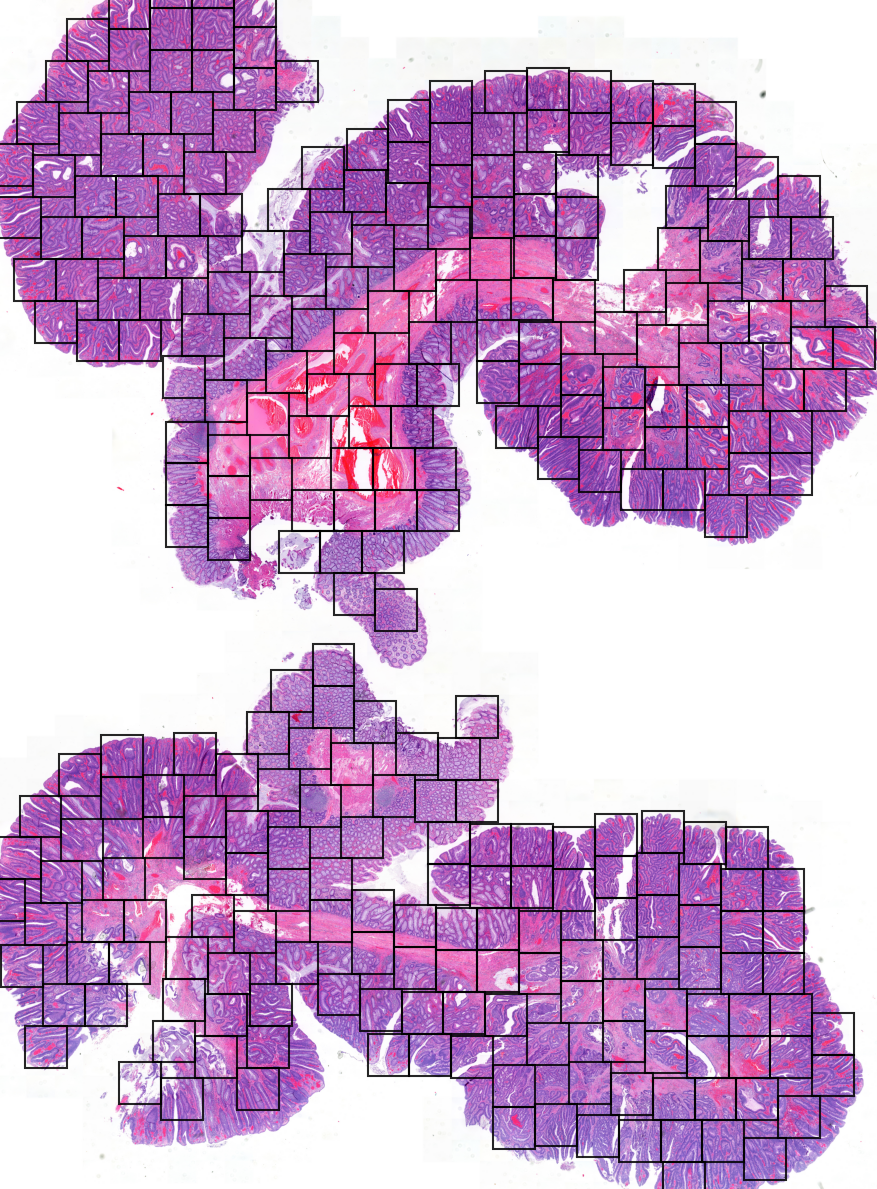
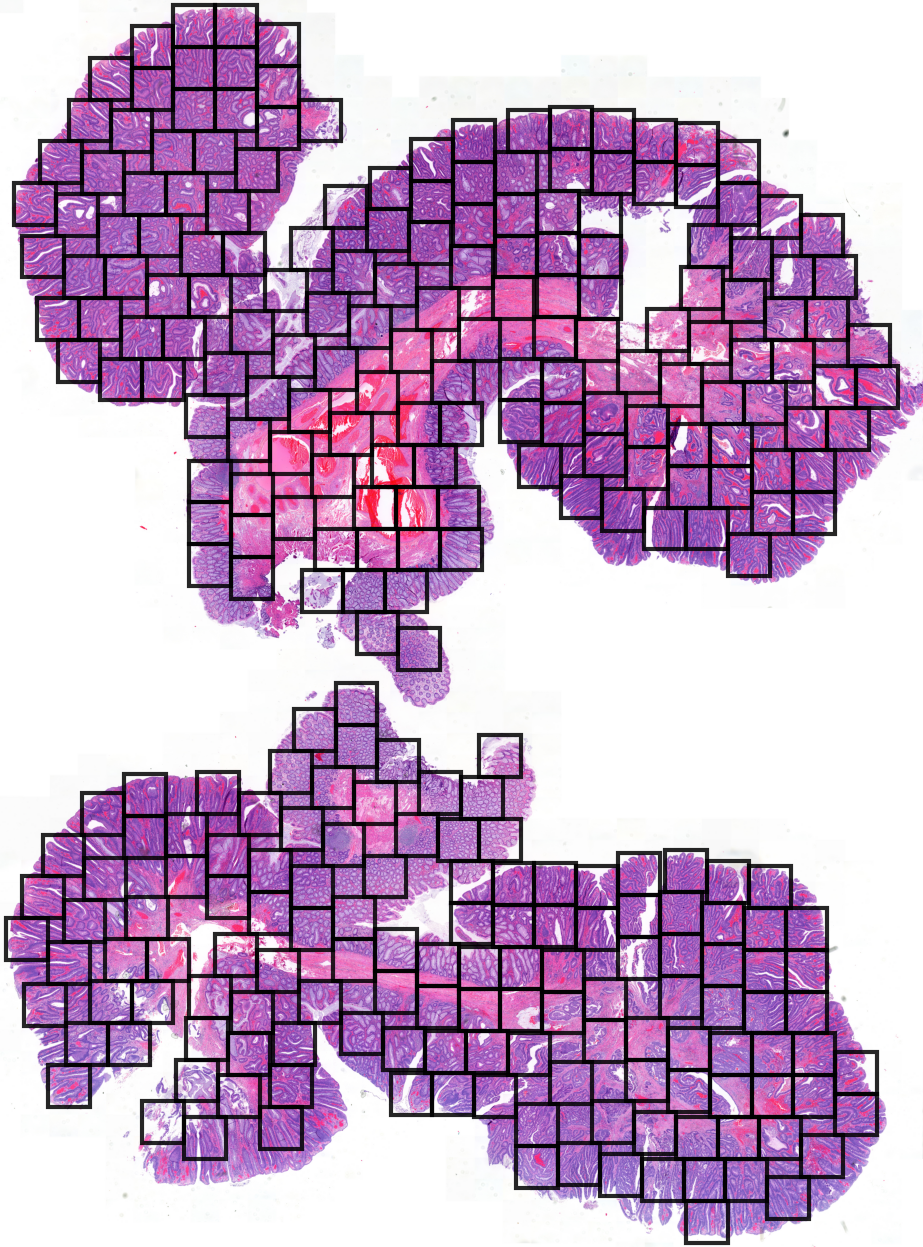
refactor: enhance Delaunay visualization with improved image handling and styling

diff --git a/scripts/delaunay_vis.py b/scripts/delaunay_vis.py
@@ -41,7 +41,6 @@ from wsi_io import (  # noqa: E402
     load_all_npz,
     load_slide_meta,
     load_mask_image,
-    load_rgb_image,
 )
 
 OVERLAY_MODE = "mask"   # "mask" → segmentation mask | "rgb" → full RGB image
@@ -55,18 +54,16 @@ def render(
     removed_edges: np.ndarray,
     title: str,
     out_path: Path,
-    rgb_img: np.ndarray,
+    mask_img: np.ndarray,
     slide_meta: dict,
-    mask_img: "np.ndarray | None" = None,
-    overlay_mode: str = "mask",
 ) -> None:
-    """Single-panel figure: RGB slide + optional mask overlay + Delaunay graph."""
-    rgb_h, rgb_w = rgb_img.shape[:2]
-    scale  = rgb_w / slide_meta["w"]
+    """Single-panel: segmentation mask as background + Delaunay graph."""
+    mask_h, mask_w = mask_img.shape[:2]
+    scale  = mask_w / slide_meta["w"]
     j_base = slide_meta["j_base"]
     i_base = slide_meta["i_base"]
 
-    # WSI level-0 coords → display pixel coords (same transform as patch_vis.py)
+    # WSI level-0 → display pixel coords (same transform as patch_vis.py)
     cx = (coords[:, 0] - j_base) * scale
     cy = (coords[:, 1] - i_base) * scale
 
@@ -76,29 +73,24 @@ def render(
     ax.axis("off")
     ax.set_title(title, color="white", fontsize=9, pad=6)
 
-    ax.imshow(rgb_img, origin="upper", zorder=1)
+    ax.imshow(mask_img, origin="upper", zorder=1)
 
-    if overlay_mode == "mask" and mask_img is not None:
-        alpha_ch  = (mask_img.sum(axis=-1) > 0).astype(np.uint8) * 180
-        mask_rgba = np.dstack([mask_img, alpha_ch])
-        ax.imshow(mask_rgba, origin="upper", alpha=0.45, zorder=2)
-
-    # removed edges (crossed non-tissue) in red
+    # removed edges in red
     for u, v in removed_edges:
         ax.plot([cx[u], cx[v]], [cy[u], cy[v]],
-                color="#ff4444", alpha=0.7, linewidth=1.0, zorder=3)
+                color="#ff4444", alpha=0.8, linewidth=1.0, zorder=2)
 
     # kept edges
     for u, v in edges:
         ax.plot([cx[u], cx[v]], [cy[u], cy[v]],
-                color="black", alpha=0.85, linewidth=1.2, zorder=4)
+                color="black", alpha=0.85, linewidth=1.2, zorder=3)
 
-    # nodes
-    ax.scatter(cx, cy, color="#00d4ff", s=14, alpha=0.9,
-               linewidths=0.4, edgecolors="white", zorder=5)
+    # nodes — black
+    ax.scatter(cx, cy, color="black", s=14, alpha=0.95,
+               linewidths=0, zorder=4)
 
-    ax.set_xlim(-0.5, rgb_w - 0.5)
-    ax.set_ylim(rgb_h - 0.5, -0.5)
+    ax.set_xlim(-0.5, mask_w - 0.5)
+    ax.set_ylim(mask_h - 0.5, -0.5)
 
     plt.tight_layout()
     out_path.parent.mkdir(parents=True, exist_ok=True)
@@ -188,11 +180,10 @@ def main() -> None:
     centroids    = coord_arrays.mean(axis=1)                           # (N, 2)
 
     slide_meta = load_slide_meta(iam_path, hospital, patient_id, slide_id)
-    rgb_img    = load_rgb_image(iam_path, hospital, patient_id, slide_id)
     mask_img   = load_mask_image(iam_path, hospital, patient_id, slide_id)
 
-    if rgb_img is None or slide_meta is None:
-        sys.exit("[ERROR] RGB image and slide metadata are required for rendering.")
+    if mask_img is None or slide_meta is None:
+        sys.exit("[ERROR] Segmentation mask and slide metadata are required for rendering.")
 
     edges, _ = build_delaunay_edges(centroids, distance_factor=2.0)
     print(f"[INFO] Graph    : {len(centroids)} nodes | {len(edges)} edges (before mask filter)")
@@ -222,10 +213,8 @@ def main() -> None:
         removed_edges=removed_edges,
         title=title,
         out_path=Path(args.output),
-        rgb_img=rgb_img,
-        slide_meta=slide_meta,
         mask_img=mask_img,
-        overlay_mode=OVERLAY_MODE,
+        slide_meta=slide_meta,
     )
 
 
